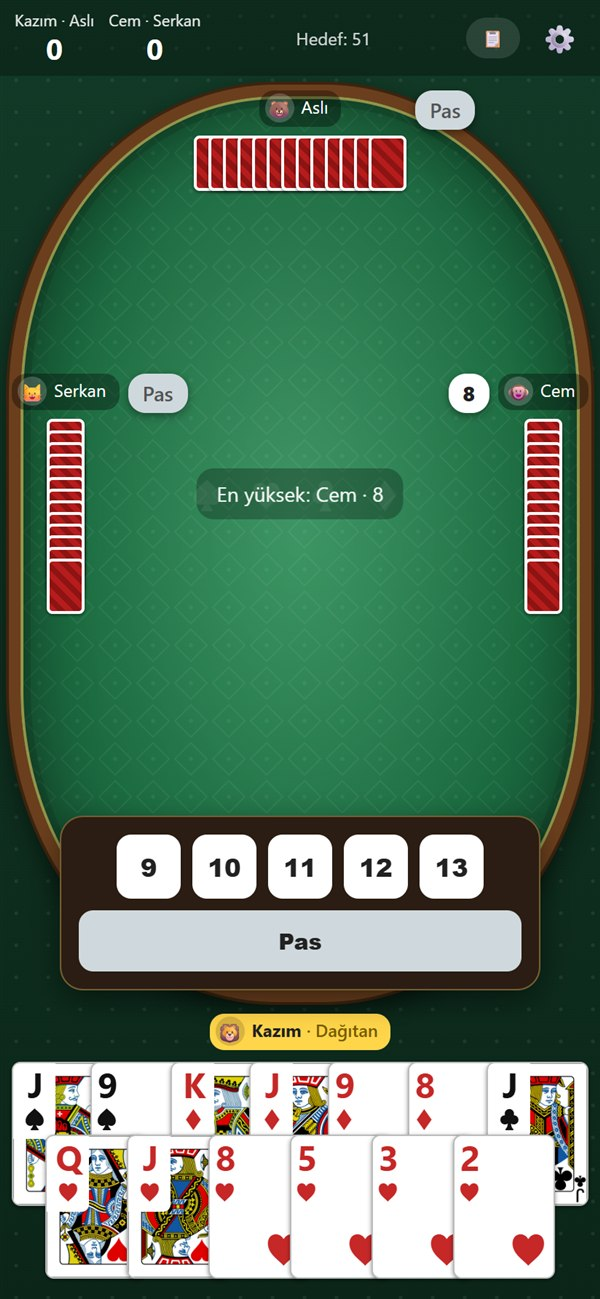
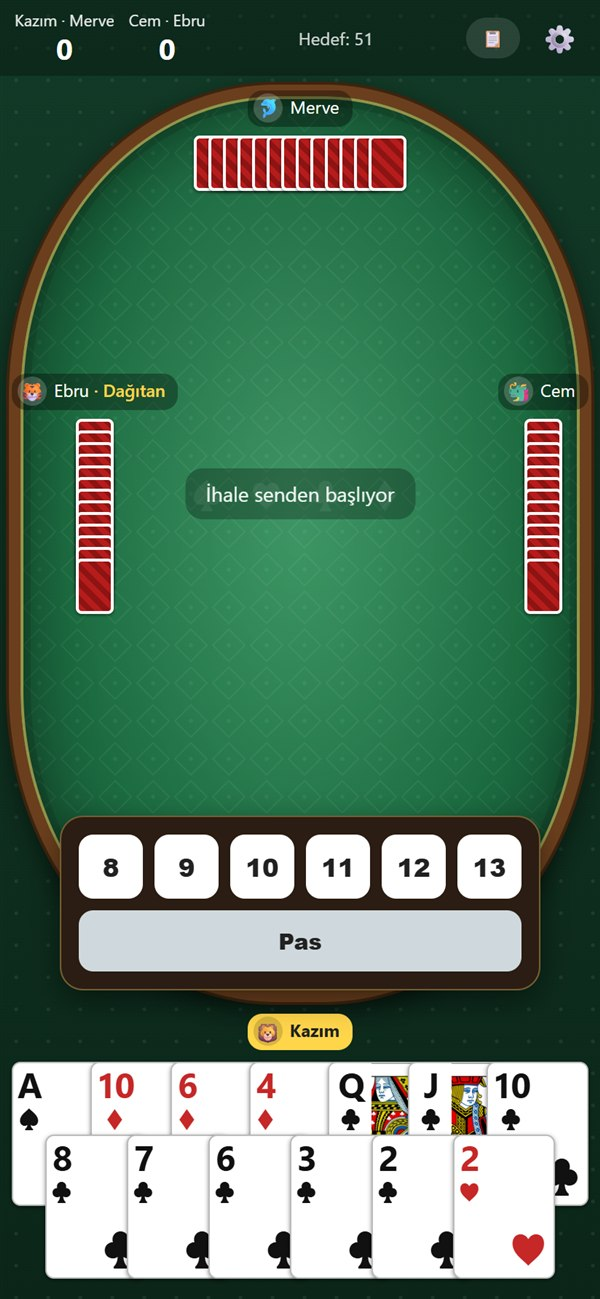
El sayısı rozeti isim etiketinin üstüne binmesin
Rozet artık isim etiketinin solunda kendi yerinde duruyor; README ekran görüntüleri yenilendi.

diff --git a/oyun/index.html b/oyun/index.html
@@ -272,7 +272,10 @@
   .north .won { top: calc(100% + 6px); left: 50%; transform: translateX(-50%); }
   .west .won  { left: calc(100% + 8px); top: 50%; transform: translateY(-50%); }
   .east .won  { right: calc(100% + 8px); top: 50%; transform: translateY(-50%); }
-  #me .won    { right: calc(50% + 40px); top: 6px; }
+  /* Benim el sayım isim etiketinin solunda durur; etiket uzasa da üstüne binmez, etiket ortada kalır */
+  .me-row { display: grid; grid-template-columns: 1fr auto 1fr; align-items: center; gap: 8px; width: 100%; }
+  .me-row .name { grid-column: 2; }
+  #me .won    { position: static; grid-column: 1; grid-row: 1; justify-self: end; }
   #contract .red { color: #ff8a80; }
 
   /* Benim elim */
@@ -526,9 +529,8 @@
   </div>
 
   <div id="me" class="seat-me" style="position: relative;">
-    <div class="name" id="myname">Sen</div>
+    <div class="me-row"><div class="won"></div><div class="name" id="myname">Sen</div></div>
     <div class="bubble"></div>
-    <div class="won"></div>
     <div id="hand"></div>
   </div>
 

diff --git a/oyun/sw.js b/oyun/sw.js
@@ -1,6 +1,6 @@
 // İnternetsiz oynama: oyun dosyaları telefona kaydedilir.
 // Oyunu güncellediğinde SURUM'u bir artır ki telefonlar yeni sürümü alsın.
-const SURUM = 'batak-v5';
+const SURUM = 'batak-v6';
 const DOSYALAR = [
   './', './index.html', './manifest.webmanifest',
   './icons/icon-192.png', './icons/icon-512.png', './icons/apple-touch-icon.png', './icons/favicon.png',
